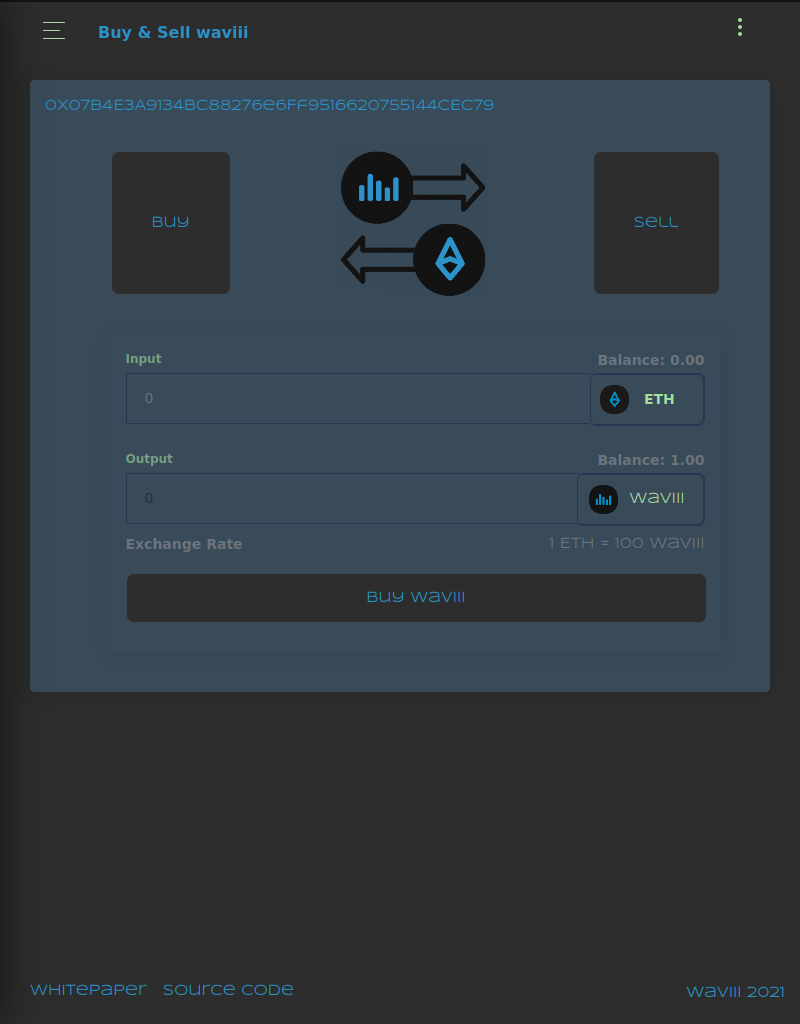
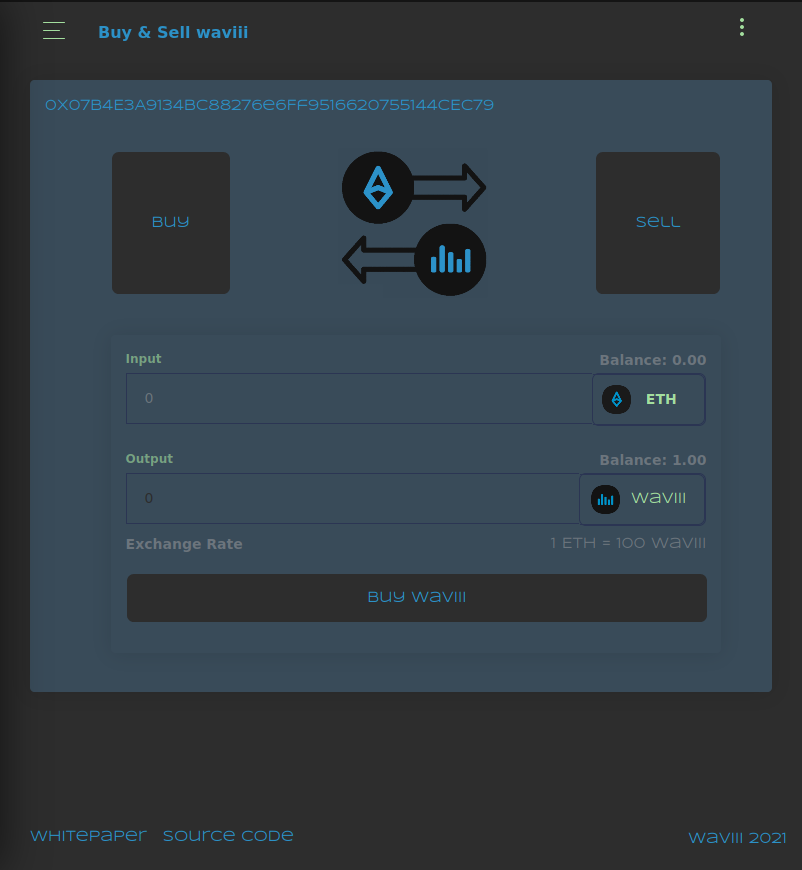
Workload Svg

diff --git a/README.md b/README.md
@@ -37,8 +37,8 @@ Fully Decentralized ERC-20 Token, Wallet, Exchange & Price Chart. React frontend
 > Demo
 > [<img src="src/assets/img/Demo.gif">](https://waviii.io/)
 
-> Responsive Design
-> [<img src="src/assets/img/Responsive.png">](https://waviii.io/)
+> Exchange Eth & waviii
+> [<img src="src/assets/img/Swap.png">](https://waviii.io/)
 
 > Setup
 > [<img src="src/assets/img/Setup.gif">](https://wakatime.com/@532855a8-3081-4600-a53d-4262beb65d14/projects/vnkbpbfjis?start=2021-01-24&end=2021-02-02)
